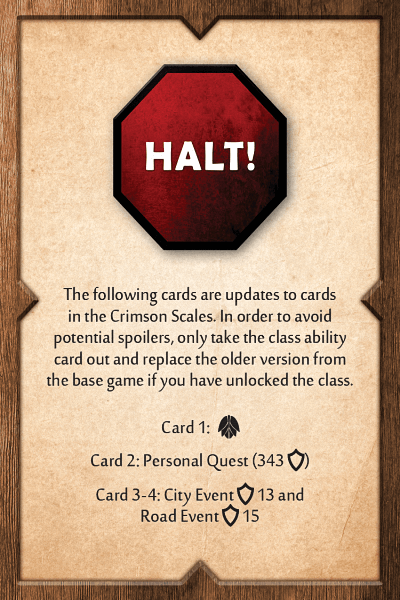
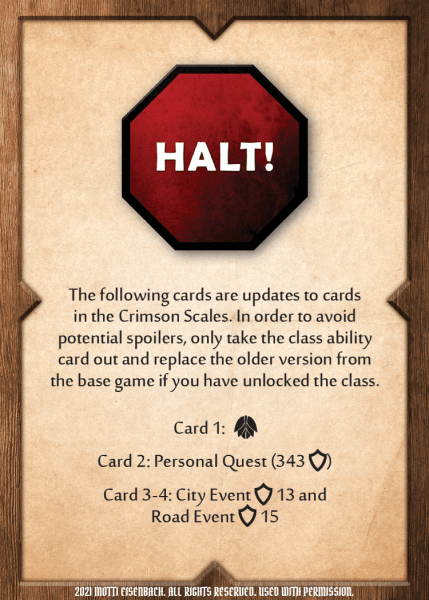
Implement New TOA PA Assets with Copyright, Standardized Sizes & Asset Numbers

diff --git a/data/player-aid-cards.js b/data/player-aid-cards.js
@@ -424,122 +424,171 @@
     "assetno": "###"
   },
   {
-    "name": "toa halt am 1-5 back",
+    "name": "halt am 1-5 front",
     "points": 53,
     "expansion": "trail of ashes",
-    "image": "player-aid-cards/trail-of-ashes/toa-halt-am-1-5-back.png",
-    "xws": "toahaltam15back"
+    "image": "player-aid-cards/trail-of-ashes/toa-halt-am-1-5-front.png",
+    "xws": "haltam15front",
+    "assetno": "###"
   },
   {
-    "name": "toa halt am 1-5 front",
+    "name": "halt am 1-5 back",
     "points": 54,
     "expansion": "trail of ashes",
-    "image": "player-aid-cards/trail-of-ashes/toa-halt-am-1-5-front.png",
-    "xws": "toahaltam15front"
+    "image": "player-aid-cards/trail-of-ashes/toa-halt-am-1-5-back.png",
+    "xws": "haltam15back",
+    "assetno": "###"
   },
   {
-    "name": "toa halt class 1-3 back",
+    "name": "halt class 1-3 front",
     "points": 55,
     "expansion": "trail of ashes",
-    "image": "player-aid-cards/trail-of-ashes/toa-halt-class-1-3-back.png",
-    "xws": "toahaltclass13back"
+    "image": "player-aid-cards/trail-of-ashes/toa-halt-class-1-3-front.png",
+    "xws": "haltclass13front",
+    "assetno": "###"
   },
   {
-    "name": "toa halt class 1-3 front",
+    "name": "halt class 1-3 back",
     "points": 56,
     "expansion": "trail of ashes",
-    "image": "player-aid-cards/trail-of-ashes/toa-halt-class-1-3-front.png",
-    "xws": "toahaltclass13front"
+    "image": "player-aid-cards/trail-of-ashes/toa-halt-class-1-3-back.png",
+    "xws": "haltclass13back",
+    "assetno": "###"
   },
   {
-    "name": "toa halt class 4-5 back",
+    "name": "halt class 4-5 front",
     "points": 57,
     "expansion": "trail of ashes",
-    "image": "player-aid-cards/trail-of-ashes/toa-halt-class-4-5-back.png",
-    "xws": "toahaltclass45back"
+    "image": "player-aid-cards/trail-of-ashes/toa-halt-class-4-5-front.png",
+    "xws": "haltclass45front",
+    "assetno": "###"
   },
   {
-    "name": "toa halt class 4-5 front",
+    "name": "halt class 4-5 back",
     "points": 58,
     "expansion": "trail of ashes",
-    "image": "player-aid-cards/trail-of-ashes/toa-halt-class-4-5-front.png",
-    "xws": "toahaltclass45front"
+    "image": "player-aid-cards/trail-of-ashes/toa-halt-class-4-5-back.png",
+    "xws": "haltclass45back",
+    "assetno": "###"
   },
   {
-    "name": "toa halt errata back",
+    "name": "halt errata front",
     "points": 59,
     "expansion": "trail of ashes",
-    "image": "player-aid-cards/trail-of-ashes/toa-halt-errata-back.png",
-    "xws": "toahalterrataback"
+    "image": "player-aid-cards/trail-of-ashes/toa-halt-errata-front.png",
+    "xws": "halterratafront",
+    "assetno": "###"
   },
   {
-    "name": "toa halt errata front",
+    "name": "halt errata back",
     "points": 60,
     "expansion": "trail of ashes",
-    "image": "player-aid-cards/trail-of-ashes/toa-halt-errata-front.png",
-    "xws": "toahalterratafront"
+    "image": "player-aid-cards/trail-of-ashes/toa-halt-errata-back.png",
+    "xws": "halterrataback",
+    "assetno": "###"
   },
   {
-    "name": "toa halt m back",
+    "name": "halt m front",
     "points": 61,
     "expansion": "trail of ashes",
-    "image": "player-aid-cards/trail-of-ashes/toa-halt-m-back.png",
-    "xws": "toahaltmback"
+    "image": "player-aid-cards/trail-of-ashes/toa-halt-m-front.png",
+    "xws": "haltmfront",
+    "assetno": "###"
   },
   {
-    "name": "toa halt m front",
+    "name": "halt m back",
     "points": 62,
     "expansion": "trail of ashes",
-    "image": "player-aid-cards/trail-of-ashes/toa-halt-m-front.png",
-    "xws": "toahaltmfront"
+    "image": "player-aid-cards/trail-of-ashes/toa-halt-m-back.png",
+    "xws": "haltmback",
+    "assetno": "###"
   },
   {
-    "name": "toa halt mini back",
+    "name": "halt mini front",
     "points": 63,
     "expansion": "trail of ashes",
-    "image": "player-aid-cards/trail-of-ashes/toa-halt-mini-back.png",
-    "xws": "toahaltminiback"
+    "image": "player-aid-cards/trail-of-ashes/toa-halt-mini-front.png",
+    "xws": "haltminifront",
+    "assetno": "###"
   },
   {
-    "name": "toa halt mini front",
+    "name": "halt mini back",
     "points": 64,
     "expansion": "trail of ashes",
-    "image": "player-aid-cards/trail-of-ashes/toa-halt-mini-front.png",
-    "xws": "toahaltminifront"
+    "image": "player-aid-cards/trail-of-ashes/toa-halt-mini-back.png",
+    "xws": "haltminiback",
+    "assetno": "###"
   },
   {
-    "name": "toa player reference back",
+    "name": "player reference front",
     "points": 65,
     "expansion": "trail of ashes",
-    "image": "player-aid-cards/trail-of-ashes/toa-player-reference-back.png",
-    "xws": "toaplayerreferenceback"
+    "image": "player-aid-cards/trail-of-ashes/toa-player-reference-front-1.png",
+    "xws": "playerreferencefront",
+    "assetno": "702"
   },
   {
-    "name": "toa player reference front",
+    "name": "702",
     "points": 66,
     "expansion": "trail of ashes",
     "image": "player-aid-cards/trail-of-ashes/toa-player-reference-front-1.png",
-    "xws": "toaplayerreferencefront"
+    "xws": "playerreferencefront",
+    "assetno": "702"
   },
   {
-    "name": "toa player reference front",
+    "name": "player reference front",
     "points": 67,
     "expansion": "trail of ashes",
     "image": "player-aid-cards/trail-of-ashes/toa-player-reference-front-2.png",
-    "xws": "toaplayerreferencefront"
+    "xws": "playerreferencefront",
+    "assetno": "703"
   },
   {
-    "name": "toa player reference front",
+    "name": "703",
     "points": 68,
     "expansion": "trail of ashes",
-    "image": "player-aid-cards/trail-of-ashes/toa-player-reference-front-3.png",
-    "xws": "toaplayerreferencefront"
+    "image": "player-aid-cards/trail-of-ashes/toa-player-reference-front-2.png",
+    "xws": "playerreferencefront",
+    "assetno": "703"
   },
   {
-    "name": "toa player reference front",
+    "name": "player reference front",
     "points": 69,
     "expansion": "trail of ashes",
+    "image": "player-aid-cards/trail-of-ashes/toa-player-reference-front-3.png",
+    "xws": "playerreferencefront",
+    "assetno": "704"
+  },
+  {
+    "name": "704",
+    "points": 70,
+    "expansion": "trail of ashes",
+    "image": "player-aid-cards/trail-of-ashes/toa-player-reference-front-3.png",
+    "xws": "playerreferencefront",
+    "assetno": "704"
+  },
+  {
+    "name": "player reference front",
+    "points": 71,
+    "expansion": "trail of ashes",
     "image": "player-aid-cards/trail-of-ashes/toa-player-reference-front-4.png",
-    "xws": "toaplayerreferencefront"
+    "xws": "playerreferencefront",
+    "assetno": "705"
+  },
+  {
+    "name": "705",
+    "points": 72,
+    "expansion": "trail of ashes",
+    "image": "player-aid-cards/trail-of-ashes/toa-player-reference-front-4.png",
+    "xws": "playerreferencefront",
+    "assetno": "705"
+  },
+  {
+    "name": "player reference back",
+    "points": 73,
+    "expansion": "trail of ashes",
+    "image": "player-aid-cards/trail-of-ashes/toa-player-reference-back.png",
+    "xws": "playerreferenceback",
+    "assetno": "###"
   }
 ]

diff --git a/index.html b/index.html
@@ -19411,7 +19411,8 @@
 					<h1><i class="fa fa-plus"></i> Player Aid Cards </h1>
 					<div class="textzone">
 						<table class="table-padded">
-							<tr><td>TOA Halt AM 1-5 Front</td><td>TOA Halt Class 1-3 Front</td><td>TOA Player Reference Front  </td></tr>
+							<tr><td class="td-bu">Asset Name</td><td class="td-bu">Asset Name</td><td class="td-bu">Asset Name</td><td class="td-bu">Asset #</td></tr>
+							<tr><td>TOA Halt AM 1-5 Front</td><td>TOA Halt Class 1-3 Front</td><td>TOA Player Reference Front  </td><td>702 | 703 | 704 | 705</td></tr>
 							<tr><td>TOA Halt AM 1-5 Back </td><td>TOA Halt Class 1-3 Back </td><td>TOA Player Reference Back   </td></tr>
 							<tr><td>TOA Halt Errata Front</td><td>TOA Halt Class 4-5 Front</td></tr>
 							<tr><td>TOA Halt Errata Back </td><td>TOA Halt Class 4-5 Back </td></tr>
@@ -20125,7 +20126,8 @@
 					<h1><i class="fa fa-plus"></i> Player Aid Cards </h1>
 					<div class="textzone">
 						<table class="table-padded">
-							<tr><td>TOA Halt AM 1-5 Front</td><td>TOA Halt Class 1-3 Front</td><td>TOA Player Reference Front  </td></tr>
+							<tr><td class="td-bu">Asset Name</td><td class="td-bu">Asset Name</td><td class="td-bu">Asset Name</td><td class="td-bu">Asset #</td></tr>
+							<tr><td>TOA Halt AM 1-5 Front</td><td>TOA Halt Class 1-3 Front</td><td>TOA Player Reference Front  </td><td>702 | 703 | 704 | 705</td></tr>
 							<tr><td>TOA Halt AM 1-5 Back </td><td>TOA Halt Class 1-3 Back </td><td>TOA Player Reference Back   </td></tr>
 							<tr><td>TOA Halt Errata Front</td><td>TOA Halt Class 4-5 Front</td></tr>
 							<tr><td>TOA Halt Errata Back </td><td>TOA Halt Class 4-5 Back </td></tr>
